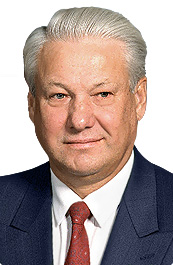
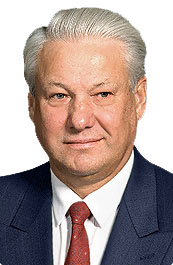
21.02.2021

diff --git a/country/main.css b/country/main.css
@@ -29,6 +29,7 @@ header a {
     color: white;
     margin: 2%;
 }
+
 #id {
     text-decoration: none;
     color: red;
@@ -52,10 +53,11 @@ header a:hover {
     color: red;
 }
 
-main{
+main {
     font-family: 'Bellota', cursive;
     font-size: 16px;
 }
+
 footer {
     width: 100%;
     height: auto;
@@ -66,7 +68,6 @@ footer {
     flex-wrap: wrap;
     font-family: 'Bellota', cursive;
     color: white;
-
 }
 
 footer a {
@@ -79,15 +80,51 @@ footer a:hover {
     text-decoration: none;
     color: red;
 }
-footer p{
+
+footer p {
     text-indent: 0px;
 }
-.fr{
+
+.fr {
     width: 30px;
     border-radius: 0px;
 }
-.fr:hover{
+
+.fr:hover {
     width: 40px;
 }
 
 
+
+.rus {
+    background: rgb(214, 39, 24);
+    background: linear-gradient(315deg, rgba(214, 39, 24, 1) 0%, rgba(143, 44, 74, 1) 33%, rgba(0, 54, 167, 1) 33%, rgba(0, 54, 167, 1) 67%, rgba(255, 255, 255, 1) 67%, rgba(255, 255, 255, 1) 100%);
+    color: black;
+    animation: tyr 4s infinite;
+}
+
+.rus a {
+    color: black;
+}
+
+.rus a:hover {
+    color: black;
+
+}
+
+@keyframes tyr {
+
+    0% {
+        background: rgb(219, 13, 32);
+        background: linear-gradient(0deg, rgba(219, 13, 32, 1) 0%, rgba(219, 13, 32, 1) 33%, rgba(1, 141, 233, 1) 33%, rgba(1, 141, 233, 1) 67%, rgba(255, 255, 255, 1) 67%, rgba(255, 255, 255, 1) 100%);
+    }
+    25% {
+        background: rgb(214, 39, 24);
+        background: linear-gradient(0deg, rgba(214, 39, 24, 1) 0%, rgba(143, 44, 74, 1) 33%, rgba(0, 54, 167, 1) 33%, rgba(0, 54, 167, 1) 67%, rgba(255, 255, 255, 1) 67%, rgba(255, 255, 255, 1) 100%);
+    }
+    100% {
+        background: rgb(219, 13, 32);
+        background: linear-gradient(0deg, rgba(219, 13, 32, 1) 0%, rgba(219, 13, 32, 1) 33%, rgba(1, 141, 233, 1) 33%, rgba(1, 141, 233, 1) 67%, rgba(255, 255, 255, 1) 67%, rgba(255, 255, 255, 1) 100%);
+    }
+   
+}

diff --git a/country/russia/index.html b/country/russia/index.html
@@ -320,7 +320,7 @@
         </div>
 
     </main>
-    <footer>
+    <footer class="rus">
 
 
 
@@ -356,7 +356,7 @@
                 </div>
                 <div class="col-sm">
                     <div class="preside">
-                        <img src="Boris.jpg" alt="">
+                        <img src="Boris.png" alt="">
                         <figcaption>Борис Николаевич Ельцин - первый президент Российской Федерации</figcaption>
                     </div>
                 </div>
